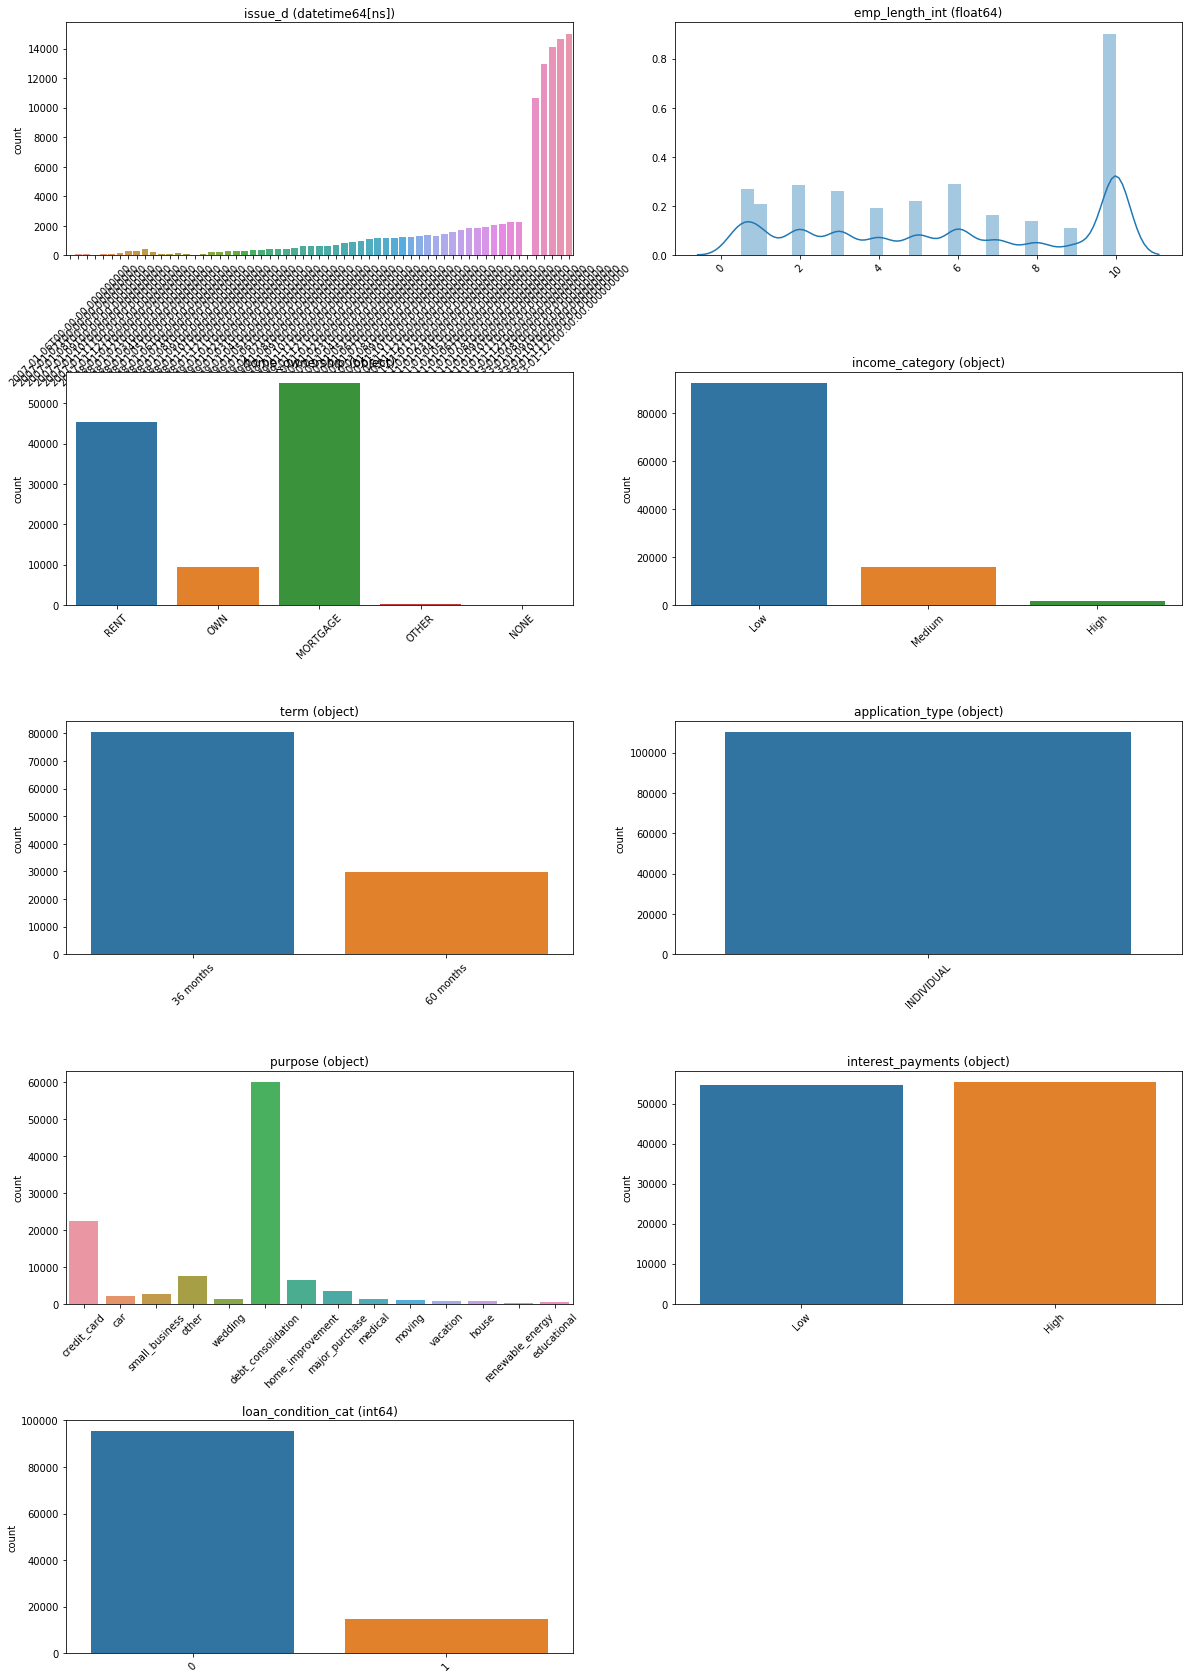
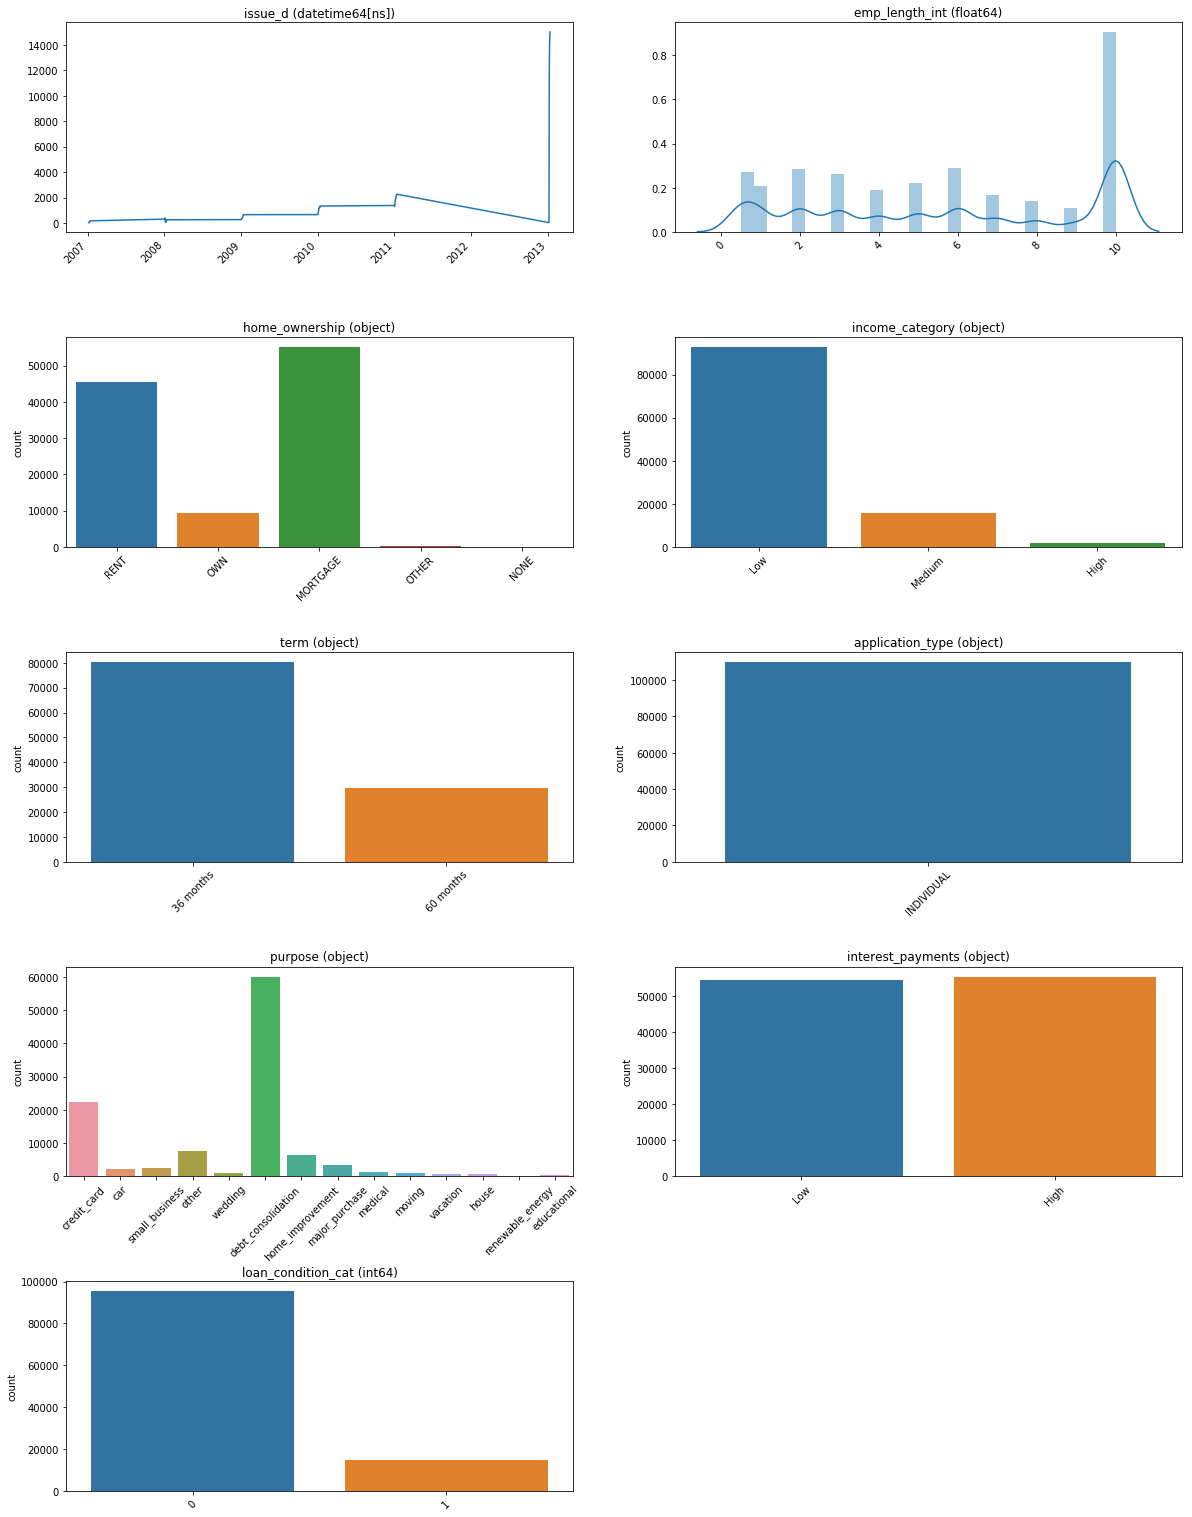
support datetime visualization (#6)

diff --git a/ds_utils/visualization_aids.py b/ds_utils/visualization_aids.py
@@ -37,6 +37,8 @@ def visualize_features(frame: pandas.DataFrame) -> None:
     for feature in features:
         if frame[feature].dtype == "float64":
             plot = seaborn.distplot(frame[feature], ax=axes[i])
+        elif frame[feature].dtype == "datetime64[ns]":
+            plot = frame.groupby(feature).size().plot(ax=axes[i])
         else:
             plot = seaborn.countplot(frame[feature], ax=axes[i])
         plot.set_title(f"{feature} ({frame[feature].dtype})")
